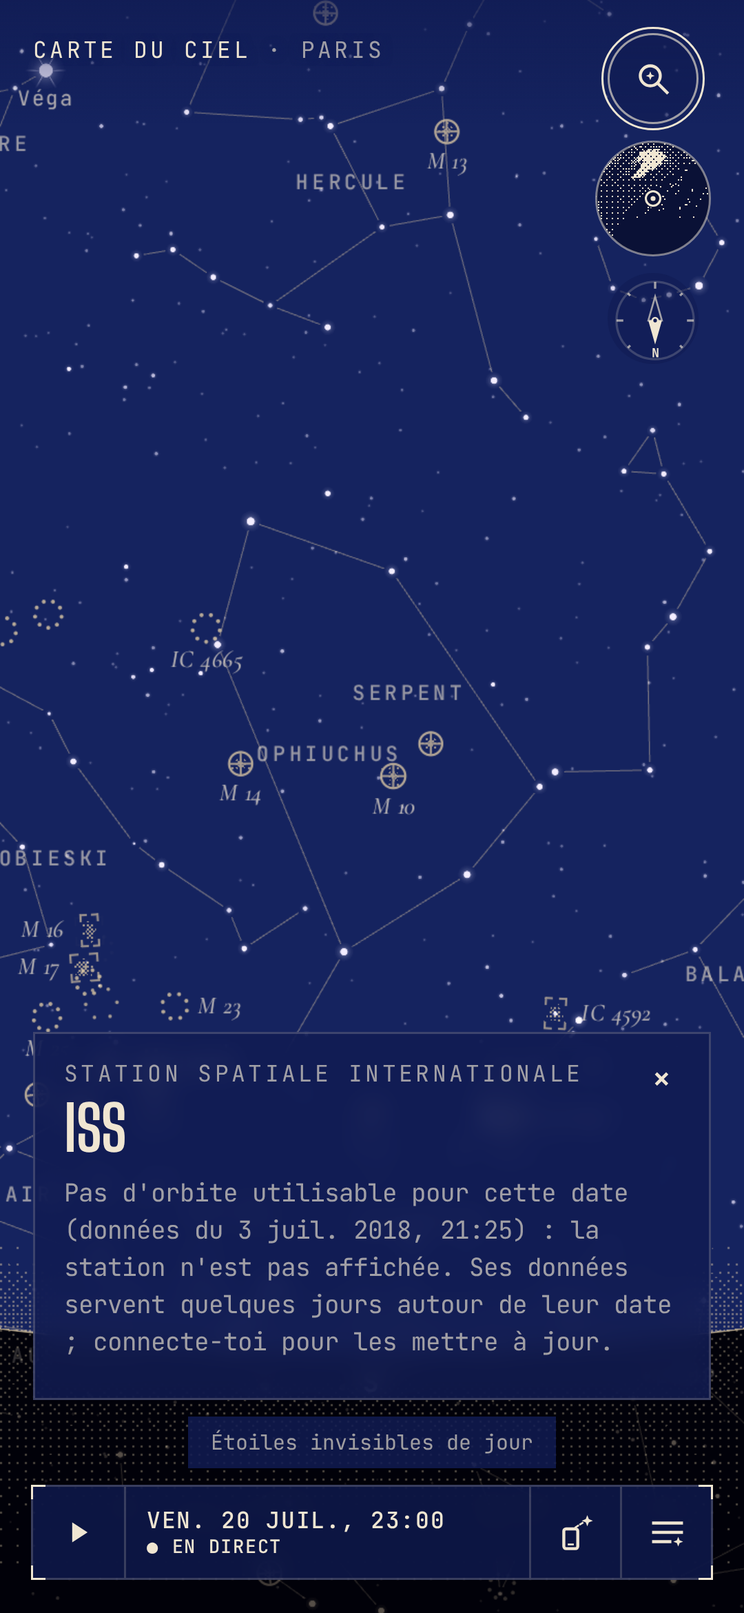
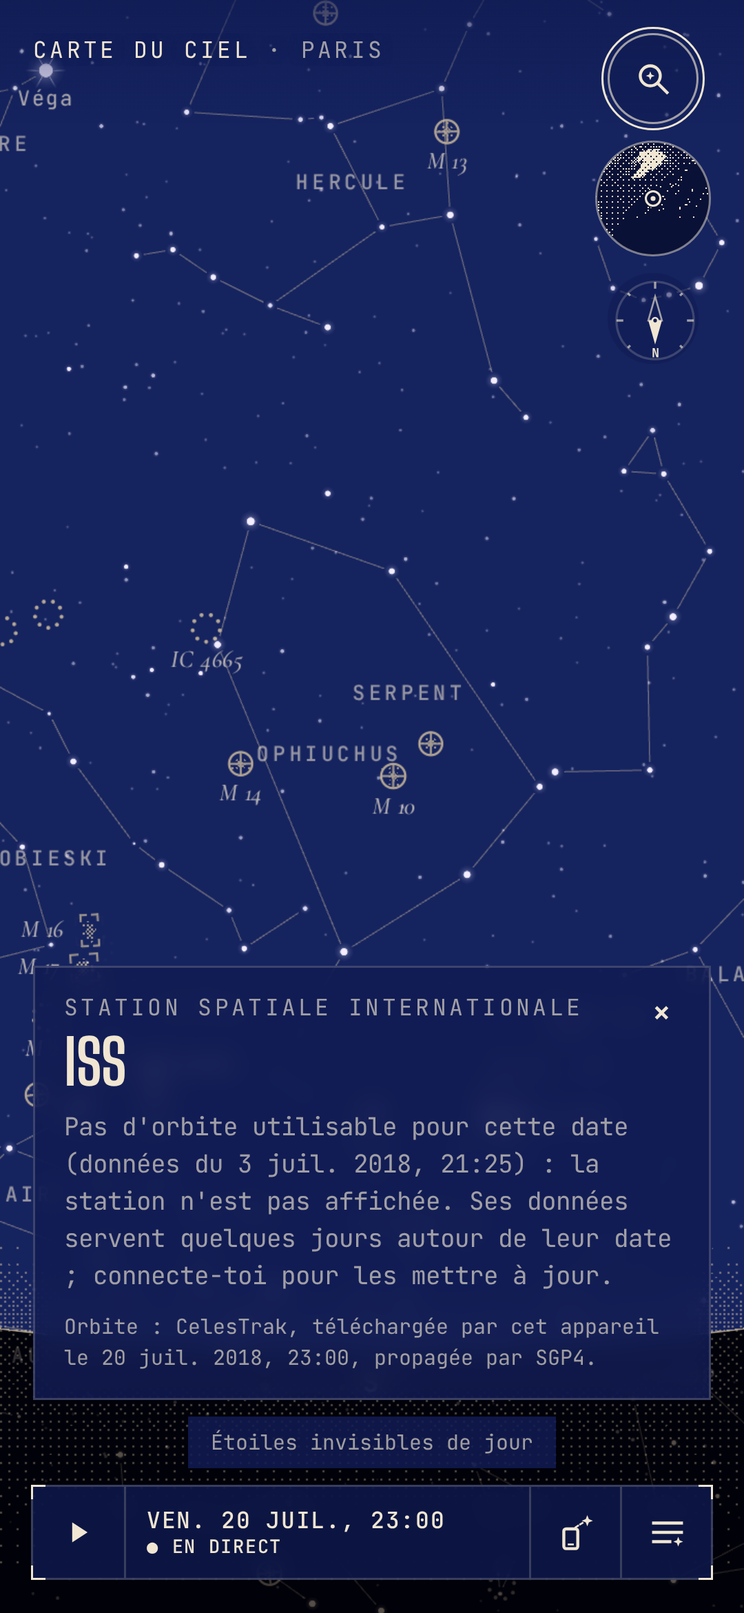
fix(live): never redistribute the ISS elements, credit CelesTrak (#12)
Review of #12: CelesTrak publishes no licence for its GP data (Space-Track
catalogue), so Asteria must not ship or serve them.

- remove the deploy-time snapshot (build_iss.py, deploy step, data sync,
  app fallback): the device downloads the elements itself from CelesTrak's
  GP endpoint for CATNR=25544 and keeps them; at most one request per device
  every 2 h, failures included; « orbite indisponible » otherwise
- « Orbite : CelesTrak » credit in the ISS sheet at every level; credits and
  DATA_SOURCES state the absence of licence and the non-redistribution
- document the provenance of the test vectors (Vallado 2006 via
  python-sgp4, 2018 ISS set from Skyfield's tests, both MIT; tests only)
- PROGRESS: CelesTrak CORS and terms to check on a real device
- captures refreshed, plus the unavailable state

Claude-Session: https://claude.ai/code/session_01N1QFv7eBBRTZ3qycztnweP

diff --git a/apps/web/src/lib/iss-tracker.svelte.ts b/apps/web/src/lib/iss-tracker.svelte.ts
@@ -1,13 +1,13 @@
 /**
- * The ISS's orbital elements in the app (#12): SGP4 code loaded on demand, elements from the
- * device's copy, CelesTrak or the build's snapshot (strategy in lib/iss.ts).
+ * The ISS's orbital elements in the app (#12): SGP4 code loaded on demand, elements downloaded
+ * by the device itself from CelesTrak and kept on it (strategy in lib/iss.ts). Asteria never
+ * ships or serves the elements.
  */
 import type { OrbitalElements } from "@asteria/astro-core/satellites";
 import { readSetting, writeSetting } from "./storage";
 import {
   CELESTRAK_ISS_URL,
   ISS_CACHE_KEY,
-  REFRESH_HOURS,
   isStoredElements,
   newer,
   pickIss,
@@ -24,19 +24,18 @@ const FETCH_TIMEOUT_MS = 15_000;
 export class IssTracker {
   /** The SGP4 module, once loaded. */
   sat = $state.raw<SatelliteModule | null>(null);
-  /** Elements in use, and where they come from. */
+  /** Elements in use, and when they were downloaded. */
   elements = $state.raw<OrbitalElements | null>(null);
   stored = $state.raw<StoredElements | null>(null);
-  /** No elements could be found (offline without a copy, CelesTrak and snapshot unavailable). */
+  /** No elements at all (never downloaded: offline, CORS, CelesTrak unreachable). */
   failed = $state(false);
   private started = false;
 
-  constructor(private readonly snapshotUrl: string) {}
-
-  /** Loads the module and the elements (once); refreshes from CelesTrak when due. */
+  /** Loads the module and the device's copy (once); downloads from CelesTrak when due. */
   async ensure(online: boolean): Promise<void> {
     if (this.started) {
-      if (online) void this.refresh(online);
+      if (online) await this.refresh(online);
+      this.failed = !this.elements;
       return;
     }
     this.started = true;
@@ -54,10 +53,6 @@ export class IssTracker {
     );
     if (kept) this.use(kept);
     await this.refresh(online);
-    // The build's snapshot may be newer than an old copy (it is part of the offline copy).
-    const s = this.stored;
-    if (!s || s.source !== "celestrak" || Date.now() - s.fetchedAt > REFRESH_HOURS * 3_600_000)
-      await this.loadSnapshot();
     this.failed = !this.elements;
   }
 
@@ -71,6 +66,10 @@ export class IssTracker {
     }
   }
 
+  /**
+   * One request to CelesTrak's GP endpoint for the ISS when refreshDue allows it (at most one
+   * attempt per device every RETRY_HOURS, recorded before the request so that a failure counts).
+   */
   private async refresh(online: boolean): Promise<void> {
     const now = Date.now();
     const last = readSetting<number | null>(ATTEMPT_KEY, null, (v): v is number | null =>
@@ -82,28 +81,14 @@ export class IssTracker {
       const omm = pickIss(await fetchJson(CELESTRAK_ISS_URL));
       if (!omm) throw new Error("No ISS record in CelesTrak's answer");
       const copy: StoredElements = { omm, fetchedAt: now, source: "celestrak" };
-      const best = newer(this.stored, copy);
-      if (best === copy) {
+      if (newer(this.stored, copy) === copy) {
         writeSetting(ISS_CACHE_KEY, copy);
         this.use(copy);
       }
-      this.failed = false;
     } catch (e) {
-      // CORS, network, CelesTrak's rate limit (403): the copy in hand stays.
+      // CORS, network, CelesTrak's rate limit (403): the copy in hand stays; the sheet says
+      // « orbite indisponible » or « trop ancienne ».
       console.warn("CelesTrak unreachable", e);
-    }
-  }
-
-  private async loadSnapshot(): Promise<void> {
-    try {
-      const json: unknown = await fetchJson(this.snapshotUrl);
-      const s = json as { fetchedAt?: unknown; gp?: unknown };
-      const omm = pickIss(s.gp);
-      if (!omm || !isNumber(s.fetchedAt)) return;
-      const copy: StoredElements = { omm, fetchedAt: s.fetchedAt, source: "snapshot" };
-      if (newer(this.stored, copy) === copy) this.use(copy);
-    } catch {
-      // No snapshot in this build (CelesTrak unreachable when it was made).
     }
   }
 }

diff --git a/apps/web/src/lib/iss.ts b/apps/web/src/lib/iss.ts
@@ -3,13 +3,15 @@
  * the small pieces of logic the panel and the map share (pure, tested).
  *
  * Elements: CelesTrak's GP data for NORAD 25544, as an OMM record in JSON (the format CelesTrak
- * recommends over the TLE). Freshness strategy (docs/DATA_SOURCES.md):
+ * recommends over the TLE), downloaded by the user's own browser straight from CelesTrak and kept
+ * on the device only. Asteria does not ship, serve or redistribute them (no licence is published
+ * for them: docs/DATA_SOURCES.md). Freshness strategy:
  * 1. the copy kept on the device (localStorage) is used at once, whatever the network;
- * 2. online, it is refreshed from CelesTrak when more than REFRESH_HOURS old, at most once per
- *    RETRY_HOURS (CelesTrak updates the ISS a few times a day and asks clients not to download the
- *    same data more often than every 2 hours);
- * 3. without any copy (first use offline, or CelesTrak unreachable), the snapshot taken when the
- *    app was built (`data/iss.json`, part of the offline copy) is used if it is fresh enough;
+ * 2. online, it is refreshed from CelesTrak when more than REFRESH_HOURS old, with at most one
+ *    request per device every RETRY_HOURS, failures included (CelesTrak's usage policy asks
+ *    clients not to download the same data again before it is updated);
+ * 3. without any copy (first use offline, CORS or network failure) the ISS is not shown and its
+ *    sheet says the orbit is unavailable;
  * 4. the age that counts is between the elements' epoch and the displayed date: up to FRESH_DAYS
  *    the ISS is shown as computed, up to MAX_AGE_DAYS with a warning (times off by up to a few
  *    minutes), beyond that it is not shown at all (SGP4 errors grow quickly; reboosts).
@@ -30,12 +32,12 @@ export const MAX_AGE_DAYS = 7;
 const MS_PER_HOUR = 3_600_000;
 const MS_PER_DAY = 86_400_000;
 
-/** Elements kept on the device (or shipped with the build). */
+/** Elements kept on the device, as downloaded from CelesTrak. */
 export interface StoredElements {
   omm: OmmRecord;
   /** When they were downloaded (Unix ms). */
   fetchedAt: number;
-  source: "celestrak" | "snapshot";
+  source: "celestrak";
 }
 
 export type Freshness = "fresh" | "aging" | "stale";
@@ -81,7 +83,7 @@ export function isStoredElements(v: unknown): v is StoredElements {
     isOmmRecord(s.omm) &&
     typeof s.fetchedAt === "number" &&
     Number.isFinite(s.fetchedAt) &&
-    (s.source === "celestrak" || s.source === "snapshot")
+    s.source === "celestrak"
   );
 }
 
@@ -109,7 +111,7 @@ export function refreshDue(
 ): boolean {
   if (!online) return false;
   if (lastAttempt !== null && now - lastAttempt < RETRY_HOURS * MS_PER_HOUR) return false;
-  return !copy || copy.source !== "celestrak" || now - copy.fetchedAt > REFRESH_HOURS * MS_PER_HOUR;
+  return !copy || now - copy.fetchedAt > REFRESH_HOURS * MS_PER_HOUR;
 }
 
 /** Index 0…7 of the compass point (N, NE, E… NW) nearest to an azimuth (degrees from North). */

diff --git a/apps/web/src/lib/iss.test.ts b/apps/web/src/lib/iss.test.ts
@@ -72,7 +72,7 @@ describe("elements", () => {
     const recent: StoredElements = {
       omm: { ...record, EPOCH: "2018-07-05T10:00:00.000000" },
       fetchedAt: epoch - DAY, // downloaded earlier does not matter
-      source: "snapshot",
+      source: "celestrak",
     };
     expect(newer(old, recent)).toBe(recent);
     expect(newer(recent, old)).toBe(recent);
@@ -101,9 +101,13 @@ describe("refreshDue", () => {
     expect(refreshDue(null, null, now, false)).toBe(false);
   });
 
-  it("asks when there is no copy, or only the build's snapshot", () => {
+  it("asks when there is no copy", () => {
     expect(refreshDue(null, null, now, true)).toBe(true);
-    expect(refreshDue({ ...copy, fetchedAt: now, source: "snapshot" }, null, now, true)).toBe(true);
+  });
+
+  it("does not ask again within 2 hours of a failed attempt, even without a copy", () => {
+    expect(refreshDue(null, now - 1.9 * HOUR, now, true)).toBe(false);
+    expect(refreshDue(null, now - 2.1 * HOUR, now, true)).toBe(true);
   });
 
   it("asks again after 6 hours, at most once every 2 hours", () => {

diff --git a/apps/web/src/components/IssPanel.svelte b/apps/web/src/components/IssPanel.svelte
@@ -22,7 +22,6 @@
     /** Days from the epoch to the displayed date (signed). */
     ageDays: number;
     freshness: "fresh" | "aging" | "stale";
-    source: "celestrak" | "snapshot";
     fetchedAt: Date;
     noradId: number;
     inclination: number;
@@ -253,13 +252,14 @@
         {$_("iss.aging", { values: { days: Math.round(Math.abs(orbit.ageDays)) } })}
       </p>
     {/if}
-    {#if level !== "discovery"}
-      <p class="note">
-        {$_(orbit.source === "celestrak" ? "iss.orbit.source" : "iss.orbit.sourceSnapshot", {
-          values: { date: dateTime.format(orbit.fetchedAt) },
-        })}
-      </p>
-    {/if}
+  {/if}
+  {#if orbit && status === "ready"}
+    <!-- Credit to the source of the elements, at every level (docs/DATA_SOURCES.md). -->
+    <p class="note">
+      {level === "discovery"
+        ? $_("iss.credit")
+        : $_("iss.orbit.source", { values: { date: dateTime.format(orbit.fetchedAt) } })}
+    </p>
   {/if}
 </InfoPanel>
 

diff --git a/apps/web/src/App.svelte b/apps/web/src/App.svelte
@@ -1463,7 +1463,7 @@
   });
 
   // --- The ISS (#12): SGP4 module and elements loaded on demand (layer on, or searched).
-  const issTracker = new IssTracker(dataUrl("iss.json"));
+  const issTracker = new IssTracker();
   const issWanted = $derived(
     status === "ready" && (viewLayers.sky.satellites || selection?.kind === "satellite"),
   );
@@ -1608,7 +1608,6 @@
             epoch: el.epoch,
             ageDays: elementsAgeDaysOf(el.epochMs, date),
             freshness: issFreshness,
-            source: stored.source,
             fetchedAt: new Date(stored.fetchedAt),
             noradId: el.noradId,
             inclination: el.inclination,

diff --git a/tools/iss-reference/build_iss_reference.py b/tools/iss-reference/build_iss_reference.py
@@ -11,6 +11,17 @@ Writes packages/astro-core/src/data/iss-reference.json from:
    seen from Paris (WGS-84, 0 m): altitude, azimuth, range; rise / culmination / set events
    (find_events, horizon 0°, geometric); sunlit state (is_sunlit, DE421) and Sun altitude.
 
+Provenance of the element sets (test vectors only: the file is read by satellites.test.ts and is
+not part of the app's build or of its offline copy):
+- the Vallado cases are the published verification vectors of the paper above (companion files
+  of AIAA 2006-6753), quoted verbatim as redistributed in python-sgp4's MIT-licensed package;
+- the 2018 ISS element set is quoted verbatim from Skyfield's MIT-licensed test suite
+  (skyfield/tests/test_earth_satellites.py, release 1.55), where it is the input of the
+  comparison with JPL Horizons whose vectors we also use.
+Both originate in the US Space Force catalogue (Space-Track, via CelesTrak) like every TLE; they
+are historical (2000–2018) and kept here only as citable test inputs, the practice of these
+MIT-licensed projects. The app itself never ships elements (see docs/DATA_SOURCES.md, ISS).
+
 Run (not part of the build; needs only PyPI):
     python -m venv .venv && .venv/bin/pip install -r tools/iss-reference/requirements.txt
     .venv/bin/python -I tools/iss-reference/build_iss_reference.py
@@ -137,9 +148,12 @@ def skyfield_reference() -> dict:
 def main() -> int:
     data = {
         "_source": (
-            "tools/iss-reference/build_iss_reference.py — Vallado et al. 2006 (AIAA 2006-6753 Rev 2) "
-            f"via python-sgp4 {sgp4.__version__}; Skyfield {skyfield_version} with DE421 "
-            "(skyfield-data). Not edited by hand."
+            "tools/iss-reference/build_iss_reference.py — test vectors only, not shipped with the "
+            "app. Vallado et al. 2006 (AIAA 2006-6753 Rev 2) verification cases as redistributed by "
+            f"python-sgp4 {sgp4.__version__} (MIT); ISS element set of 2018-07-03 quoted from "
+            f"Skyfield {skyfield_version}'s MIT-licensed test suite (JPL Horizons comparison); "
+            "Skyfield with DE421 (skyfield-data) for look angles, passes and shadow. "
+            "Not edited by hand."
         ),
         "vallado": vallado_cases(),
         "skyfield": skyfield_reference(),

diff --git a/docs/DATA_SOURCES.md b/docs/DATA_SOURCES.md
@@ -33,7 +33,7 @@
 | Rayon du Soleil ; paramètres gravitationnels des orbites | **IAU 2015 Resolution B3** (rayon solaire nominal 695 700 km) ; constante de Gauss k = 0,01720209895 (IAU 1976) ; rapports de masse Soleil/planète et GM⊕, Terre/Lune du **système de constantes IAU 2009** (Luzum et al. 2011, *Celest. Mech. Dyn. Astr.* 110:293) | IAU | Libre (publication scientifique, citation) | Système solaire à l'échelle réelle (#131) : globe du Soleil, orbites osculatrices (`orbits.ts`), testées à < 0,5 % du trajet d'astronomy-engine un quart de période plus loin — ✅ |
 | Équinoxes et solstices | lib `astronomy-engine` `Seasons` (MIT) ; validation **USNO**, Astronomical Applications Department, « Earth's Seasons » (api.usno.navy.mil/seasons, heures TU à la minute), tableau `generate/seasons/seasons.txt` du dépôt astronomy-engine (commit `865d3da7d811`), l'USNO et l'IMCCE n'étant pas joignables depuis l'environnement de build | U.S. Naval Observatory | Domaine public (œuvre du gouvernement des États-Unis) | Marques de « Les saisons » (#128) : `astro-core` `seasons`, testé à **10 min** pour 2000, 2024, 2025, 2026, 2027 et 2100 — écart maximal mesuré 1,9 min (2100) ; contrôle croisé : déclinaison apparente du Soleil = ± obliquité moyenne IAU 2006 aux solstices (0,005°) — ✅ |
 | Périodes orbitales sidérales | **JPL Horizons**, données physiques des mêmes tables (« Sidereal orb. per. » : Mercure 87,969 j … Neptune 60 189 j, Terre 365,25636 j) | NASA JPL | Libre | Échantillonnage des orbites dessinées par « Le système solaire » (un tour) ; les positions viennent de `heliocentricPosition` |
-| Satellites / ISS | **CelesTrak** (T. S. Kelso), données GP (« general perturbations ») de l'ISS, NORAD 25544, en OMM JSON (`gp.php?CATNR=25544&FORMAT=JSON`), issues du catalogue de l'US Space Force (Space-Track) | CelesTrak | Pas de licence écrite : données publiques redistribuées par CelesTrak, mention « CelesTrak » demandée, règles d'usage (pas plus d'un téléchargement par mise à jour, soit toutes les 2 h) ; **à confirmer** (site injoignable depuis le conteneur, cf. PROGRESS) | ✅ #12 : position et passages visibles de l'ISS, propagés par SGP4 (`satellite.js`, MIT) dans `astro-core/satellites.ts` ; fraîcheur et validation : voir « ISS (#12) » ci-dessous |
+| Satellites / ISS | **CelesTrak** (T. S. Kelso), données GP (« general perturbations ») de l'ISS, NORAD 25544, en OMM JSON (`gp.php?CATNR=25544&FORMAT=JSON`), issues du catalogue de l'US Space Force (18th et 19th Space Defense Squadrons, Space-Track) | CelesTrak | **Aucune licence publiée** (la politique d'usage https://celestrak.org/usage-policy.php ne porte que sur la fréquence des requêtes ; l'accord d'utilisation de Space-Track restreint la redistribution). **Non redistribué — à revoir si on veut une copie hors ligne** : Asteria n'embarque ni ne sert aucun élément, c'est l'appareil de l'utilisateur qui les télécharge directement chez CelesTrak et les garde pour lui ; mention « Orbite : CelesTrak » dans la fiche de l'ISS | ✅ #12 : position et passages visibles de l'ISS, propagés par SGP4 (`satellite.js`, MIT) dans `astro-core/satellites.ts` ; fraîcheur et validation : voir « ISS (#12) » ci-dessous |
 | Exoplanètes | **NASA Exoplanet Archive** | NASA / IPAC | Libre | Étoiles hôtes |
 | Objets (expert) | **SIMBAD** (API TAP) | CDS Strasbourg | Libre, citation | Liens et données croisées |
 | Figures illustrées des constellations (jeu 1, #95) | **Stellarium**, culture du ciel « western » : dépôt `Stellarium/stellarium-skycultures`, dossier `western/`, **commit épinglé `014fbb5e59233d133c22f9811af96b67d05a95c9`** (2026-05-26) ; 85 illustrations WebP de **Johan Meuris** (`western/illustrations/`), chacune ancrée sur 3 étoiles HIP (`index.json`, `constellations[].image.anchors`) | Stellarium | Illustrations : **Licence Art Libre (Free Art License)** — `description.md` ne précise pas la version ; nous appliquons la **1.3** (version en vigueur, https://artlibre.org/licence/lal/) ; texte et données (ancrages) : **CC BY-SA** (version non précisée → CC BY-SA 4.0, comme les lignes). Le fichier `LICENSE-AGPL-3.0.txt` à la racine du dépôt couvre ses scripts Python, pas les cultures. Copyleft : l'atlas dérivé est diffusé sous LAL 1.3 avec attribution (« Illustrations: Johan Meuris »), mention des modifications et lien vers les originaux au commit épinglé (page Crédits, manifeste) ; l'application n'est pas une œuvre dérivée (simple affichage, comme dans Stellarium) | ✅ intégré (#95, #96) : `build_figures.py` vérifie que la mention de licence de `description.md` n'a pas changé, convertit en niveaux de gris (luminance = encre), réduit à 240 px, normalise (99e centile = encre pleine), assemble un atlas 2048×2816 WebP q80 (≈ 361 Ko) + manifeste `asteria-figure-set` v1 (≈ 21 Ko, 5 Ko gzip) ; 84 figures affichées, Télescope (Tel) non affichée : son ancre HIP 91589 a V = 6,8 > 6,5 (hors catalogue). Pas d'image pour Pup, Vel (Argo Navis rattaché à Car) ni Ser |
@@ -271,14 +271,16 @@ Vallado 2006) et propagé par SGP4 dans `packages/astro-core/src/satellites.ts`,
 demande (morceau de 12 Ko gzip, sans les versions WebAssembly de la bibliothèque, remplacées par
 un module vide dans `apps/web/vite.config.ts`).
 
-**Fraîcheur** (`apps/web/src/lib/iss.ts`) :
-1. la copie gardée sur l'appareil (localStorage) sert tout de suite, même hors ligne ;
-2. en ligne, l'appli la remplace depuis CelesTrak si elle a plus de 6 h, au plus une tentative
-   toutes les 2 h (règle d'usage de CelesTrak) ; CORS de celestrak.org **à vérifier sur
-   téléphone** (non testable depuis le conteneur) ; en cas d'échec, la copie reste ;
-3. une copie prise au déploiement (`packages/sky-data/build_iss.py` → `data/iss.json`, dans la
-   copie hors ligne de l'appli) sert de secours si elle est plus récente ; étape facultative du
-   déploiement ;
+**Téléchargement et fraîcheur** (`apps/web/src/lib/iss.ts`, `iss-tracker.svelte.ts`) :
+1. aucun élément n'est embarqué dans l'appli ni dans sa copie hors ligne, ni servi par Asteria :
+   le navigateur de l'utilisateur interroge lui-même le seul point d'accès GP de CelesTrak pour
+   `CATNR=25544` (JSON) et garde la réponse sur l'appareil (localStorage) ;
+2. cette copie sert tout de suite, même hors ligne ;
+3. en ligne, elle est remplacée si elle a plus de 6 h, avec **au plus une requête par appareil
+   toutes les 2 h**, échecs compris (la tentative est notée avant la requête), conformément à la
+   politique d'usage de CelesTrak ; CORS de celestrak.org **à vérifier sur appareil réel** (non
+   testable depuis le conteneur) ; en cas d'échec (réseau, CORS, refus de CelesTrak) la copie
+   reste, et sans copie la fiche affiche « Orbite non disponible » ;
 4. l'âge qui compte est l'écart entre l'époque des éléments et la **date affichée** : jusqu'à
    3 jours l'ISS est affichée, de 3 à 7 jours avec un avertissement (heures à quelques minutes
    près), au-delà elle n'est plus affichée (la fiche le dit). L'erreur de SGP4 avec des éléments
@@ -307,6 +309,17 @@ magnitude standard de l'ISS n'a pu être vérifiée (suivi à créer).
   passages) : < 0,005° et 50 m (mesuré 11″, 22 m) ; levers, culminations, couchers sur 4 jours
   (25 passages) : < 1 s (mesuré 0,2 s) ; entrées et sorties d'ombre : < 2 s ;
 - Lune passée dans la même chaîne face à astronomy-engine : < 5″.
+
+**Éléments présents dans le dépôt (tests seulement)** : `iss-reference.json` n'est lu que par les
+tests et n'entre ni dans le build ni dans la copie hors ligne. Il cite tels quels des jeux
+d'éléments historiques publiés comme vecteurs de test : ceux de Vallado et al. 2006 (fichiers
+compagnons de l'article AIAA 2006-6753, redistribués par python-sgp4, MIT) et un jeu de l'ISS du
+3 juillet 2018 repris de la suite de tests de Skyfield (MIT, `test_earth_satellites.py`, entrée de
+sa comparaison avec JPL Horizons). Comme tout TLE ils viennent à l'origine du catalogue de l'US
+Space Force ; les citer comme vecteurs de test est la pratique de ces projets sous licence MIT.
+Le même jeu de 2018 sert aux tests de `apps/web/src/lib/iss.test.ts` et aux captures
+(`docs/design/iss/`, servi à la place de CelesTrak par le script de capture). À revoir avec le point
+de licence CelesTrak si besoin.
 
 ## Stratégie
 - Données **pré-compilées** au build en tuiles binaires compactes (HEALPix ou découpage par magnitude) → offline, rapide sur mobile.

diff --git a/PROGRESS.md b/PROGRESS.md
@@ -12,6 +12,7 @@
 | #172 | Histoires des constellations manquantes (lot 2) | Claude (agent content) | `content/172-stories-2` | 2026-10-21 |
 
 ## ⛔ Blocages / décisions en attente
+- CelesTrak : CORS et conditions à vérifier sur appareil réel (#12)
 - Licence du code : gratuit en bêta, repo privé, pas de licence open source pour l'instant (tous droits réservés)
 - Choix final des polices et du style de figure (ticket #4)
 - #98 visée décalée : besoin des observations du porteur (sens, ampleur, constance, navigateur) ; la déclinaison magnétique (≈ 2° en France) est corrigée depuis #144
@@ -28,7 +29,7 @@
 8. Licences : Hipparcos et Gaia en CC BY-NC 3.0 IGO → autorisation ESA requise avant toute monétisation
 
 ## ✅ Fait récemment
-- 2026-10-23 — #12 ISS (branche `feat/12-iss`, PR à ouvrir) : position de l'ISS sur la carte et en visée (glyphe plein si éclairée, au trait dans l'ombre), trajet du passage en pointillés datés, fiche à trois niveaux (Découverte « passe cette nuit à 4 h 45, regarde vers le sud », Amateur passages visibles, Expert orbite et âge), recherche « ISS », calque « Satellites › ISS » ; SGP4 `satellite.js` (MIT, 12 Ko gzip chargés à la demande) dans `astro-core/satellites` validé contre Vallado 2006 (1 mm), JPL Horizons (10 m) et Skyfield (0,005°, passages à 1 s) ; éléments CelesTrak (copie locale, rafraîchie toutes les 6 h, copie du déploiement en secours, masqués au-delà de 7 jours). À vérifier sur téléphone : CORS de celestrak.org et conditions d'usage CelesTrak (injoignable depuis le conteneur). Suites : magnitude (source à trouver), satellites brillants, notification Android. Captures `docs/design/iss/`.
+- 2026-10-23 — #12 ISS (branche `feat/12-iss`, PR à ouvrir) : position de l'ISS sur la carte et en visée (glyphe plein si éclairée, au trait dans l'ombre), trajet du passage en pointillés datés, fiche à trois niveaux (Découverte « passe cette nuit à 4 h 45, regarde vers le sud », Amateur passages visibles, Expert orbite et âge), recherche « ISS », calque « Satellites › ISS » ; SGP4 `satellite.js` (MIT, 12 Ko gzip chargés à la demande) dans `astro-core/satellites` validé contre Vallado 2006 (1 mm), JPL Horizons (10 m) et Skyfield (0,005°, passages à 1 s) ; éléments téléchargés par l'appareil lui-même chez CelesTrak (gardés sur l'appareil, au plus une requête toutes les 2 h, jamais redistribués par Asteria, masqués au-delà de 7 jours). Suites : magnitude (source à trouver), satellites brillants, notification Android. Captures `docs/design/iss/`.
 - 2026-10-23 — #188 « Selon la latitude » (branche `feat/188-latitude-explorer`, PR à suivre) : sphère céleste vue de l'extérieur (horizon gravé, axe incliné de φ, calottes toujours / jamais levées tramées, ciel qui tourne, constellation choisie dessinée), carte de tout le ciel en bandes, curseur du pôle Nord au pôle Sud avec parcours animé (pas à pas en mouvement réduit), comptes et listes avec la règle des jeux (5° pour la moitié de la figure : Paris 7 / 52 / 29, équateur 0 / 88 / 0), texte par niveau, définition et précession (Amateur / Expert), nuit rouge. Accès : tuile Menu › Latitude, carte de l'écran Apprendre, « Pourquoi ? » des réglages de jeux (#187). Géométrie dans `astro-core/latitude-visibility.ts`, dessins `sky-renderer/latitude-*.ts`. Captures `docs/design/latitude/`. À mesurer sur S23 (dessin ≈ 1,3 ms sphère / 0,7 ms carte par image en Chromium de bureau, 5,8 / 3,7 ms CPU ×4).
 - 2026-10-23 — #187 (branche `feat/187-game-settings-challenge`, PR à suivre) Réglages de partie et mode Défi : la carte d'un jeu ouvre une feuille (mode Entraînement / Série / Chrono avec record de chacun, ciel « Visibles de chez moi » / « Ce soir » / « Toutes » avec le nombre d'éléments), mémorisée par jeu ; « Visibles de chez moi » = au moins la moitié de la figure (en étoiles ou en éclat) culmine à ≥ 5° depuis la latitude (Paris 59, équateur 88), position inconnue → « Toutes » expliqué ; Série jusqu'à la première erreur, Chrono 60 s (points pour « Où est-elle ? »), pause si la page est cachée ; records par jeu × mode × niveau (progression v3, migration des records v1/v2 vers l'entraînement au niveau choisi) ; défis notés en répétition espacée ; fin adaptée, petite célébration de record (rien en mouvement réduit). Emplacement « Pourquoi ? » prêt pour #188 (prop `onexplain` de `GamesScreen`). Captures `docs/design/games/mobile-defi-*`.
 - 2026-10-22 — #184 « Où est-elle ? » (branche `feat/184-where-is-it`) remplace « Relie les étoiles » : un nom (et sa figure en vignette en Découverte/Amateur), toucher sa région sur tout le ciel (glisser, pincer ; le zénith fictif suit le centre de la vue), points selon la vitesse (1 000 → 100), séries de 10 sur 10 000, mémoire `con:XXX` ; frontières IAU en B1875 depuis d3-celestial (BSD-3, VI/49, commit épinglé, `build_bounds.py`), point-dans-région exact après précession, testé contre Roman 1987 et `stars.bin`. Captures `docs/design/games/mobile-ou-*.jpg`.

diff --git a/docs/design/iss/README.md b/docs/design/iss/README.md
@@ -1,7 +1,7 @@
 # ISS sur la carte (#12)
 
-Captures Playwright (Chromium, téléphone 360 × 780 @3x, tactile), Paris, éléments CelesTrak de
-l'ISS du 3 juillet 2018 (ceux du test JPL Horizons d'astro-core) servis à la place de CelesTrak,
+Captures Playwright (Chromium, téléphone 360 × 780 @3x, tactile), Paris, jeu d'éléments de
+l'ISS du 3 juillet 2018 (celui des tests Skyfield / JPL Horizons d'astro-core) servi à la place de CelesTrak,
 horloge fixée à la date indiquée (fuseau Europe/Paris).
 
 | Fichier | Ce qu'on voit |
@@ -12,6 +12,7 @@ horloge fixée à la date indiquée (fuseau Europe/Paris).
 | `mobile-discovery.png` | 5 juil., 21 h 30, niveau Découverte : « La Station spatiale passe cette nuit à 4 h 45, regarde vers le sud. » et deux repères (tour de la Terre en 93 min, 400 km) |
 | `mobile-night.png` | Vision nocturne (rouge sur noir), même passage |
 | `mobile-stale.png` | 20 juil. : éléments de plus de 7 jours, l'ISS n'est pas affichée et la fiche le dit |
+| `mobile-unavailable.png` | CelesTrak injoignable (réseau ou CORS) et aucune copie sur l'appareil : « Orbite non disponible » |
 | `mobile-menu.png` | Menu › Affichage : nouvelle section « Satellites », tuile « ISS » |
 
 Glyphe : un corps entre deux panneaux solaires, orienté dans le sens du mouvement, plein quand le
